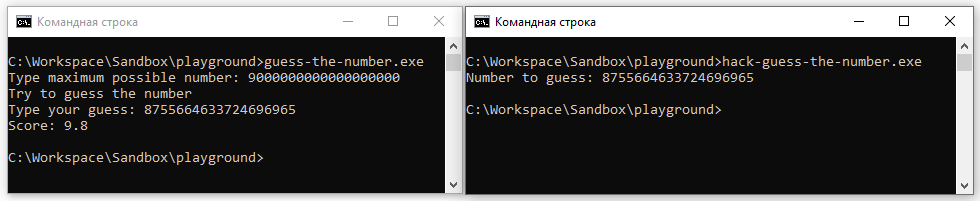
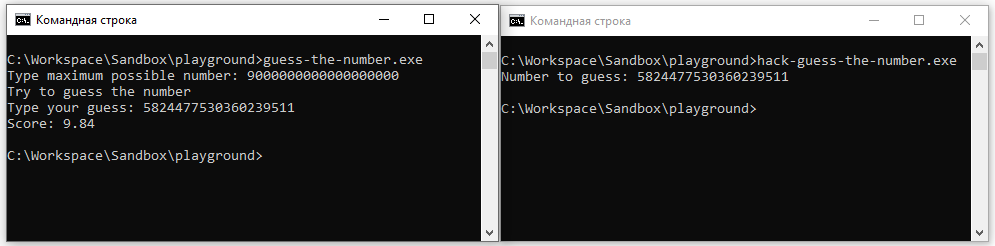
Better guess the game and change of hack

Changed region(s): [[0.0, 0.0, 1.0, 1.0], [0.0, 0.7463, 0.2755, 0.8358]]

diff --git a/games/guess-the-number/main.cpp b/games/guess-the-number/main.cpp
@@ -58,7 +58,8 @@ double game(long long maximum_number) {
 
   double divisor = log2(std::max(maximum_number, 2LL));
   double score = (1 - guesses / divisor) * 10;
-
+  // Round to two digits
+  score = round(score * 100) / 100;
   return score;
 }
 
@@ -70,6 +71,5 @@ int main() {
     maximum_number = request_ll(maximumNumberRead);
   }
   double score = game(maximum_number);
-  std::cout.precision(2);
   std::cout << scoreString << score << std::endl;
 }

diff --git a/hacks/read-memory/main.cpp b/hacks/read-memory/main.cpp
@@ -6,7 +6,7 @@
 #include <tlhelp32.h>
 
 constexpr char applicationName[] = "guess-the-number.exe";
-constexpr DWORD_PTR valueAddress = 0x0061F2B8; // Found using Cheat Engine 6.8.3
+constexpr DWORD_PTR valueAddress = 0x0061F2A8; // Found using Cheat Engine 6.8.3
  
 int main() {
   HANDLE snapshot = CreateToolhelp32Snapshot(TH32CS_SNAPPROCESS, 0);

diff --git a/hacks/read-memory/README.md b/hacks/read-memory/README.md
@@ -9,7 +9,7 @@ Current status: **OK**
 ### How to pass the challenge ([Read memory of another process](../../challenges/read-process-memory.md)).
 1. Start `guess-the-number` game and type in maximum number `9000000000000000000`.
 2. Start `hack-guess-the-number` in console. Copy the number it printed.
-3. Paste the number in `guess-the-number` game. Obtain score of `9.8`.
+3. Paste the number in `guess-the-number` game. Obtain score of `9.84`.
 
 #### Screenshot
 ![Screenshot](screenshot.png)
